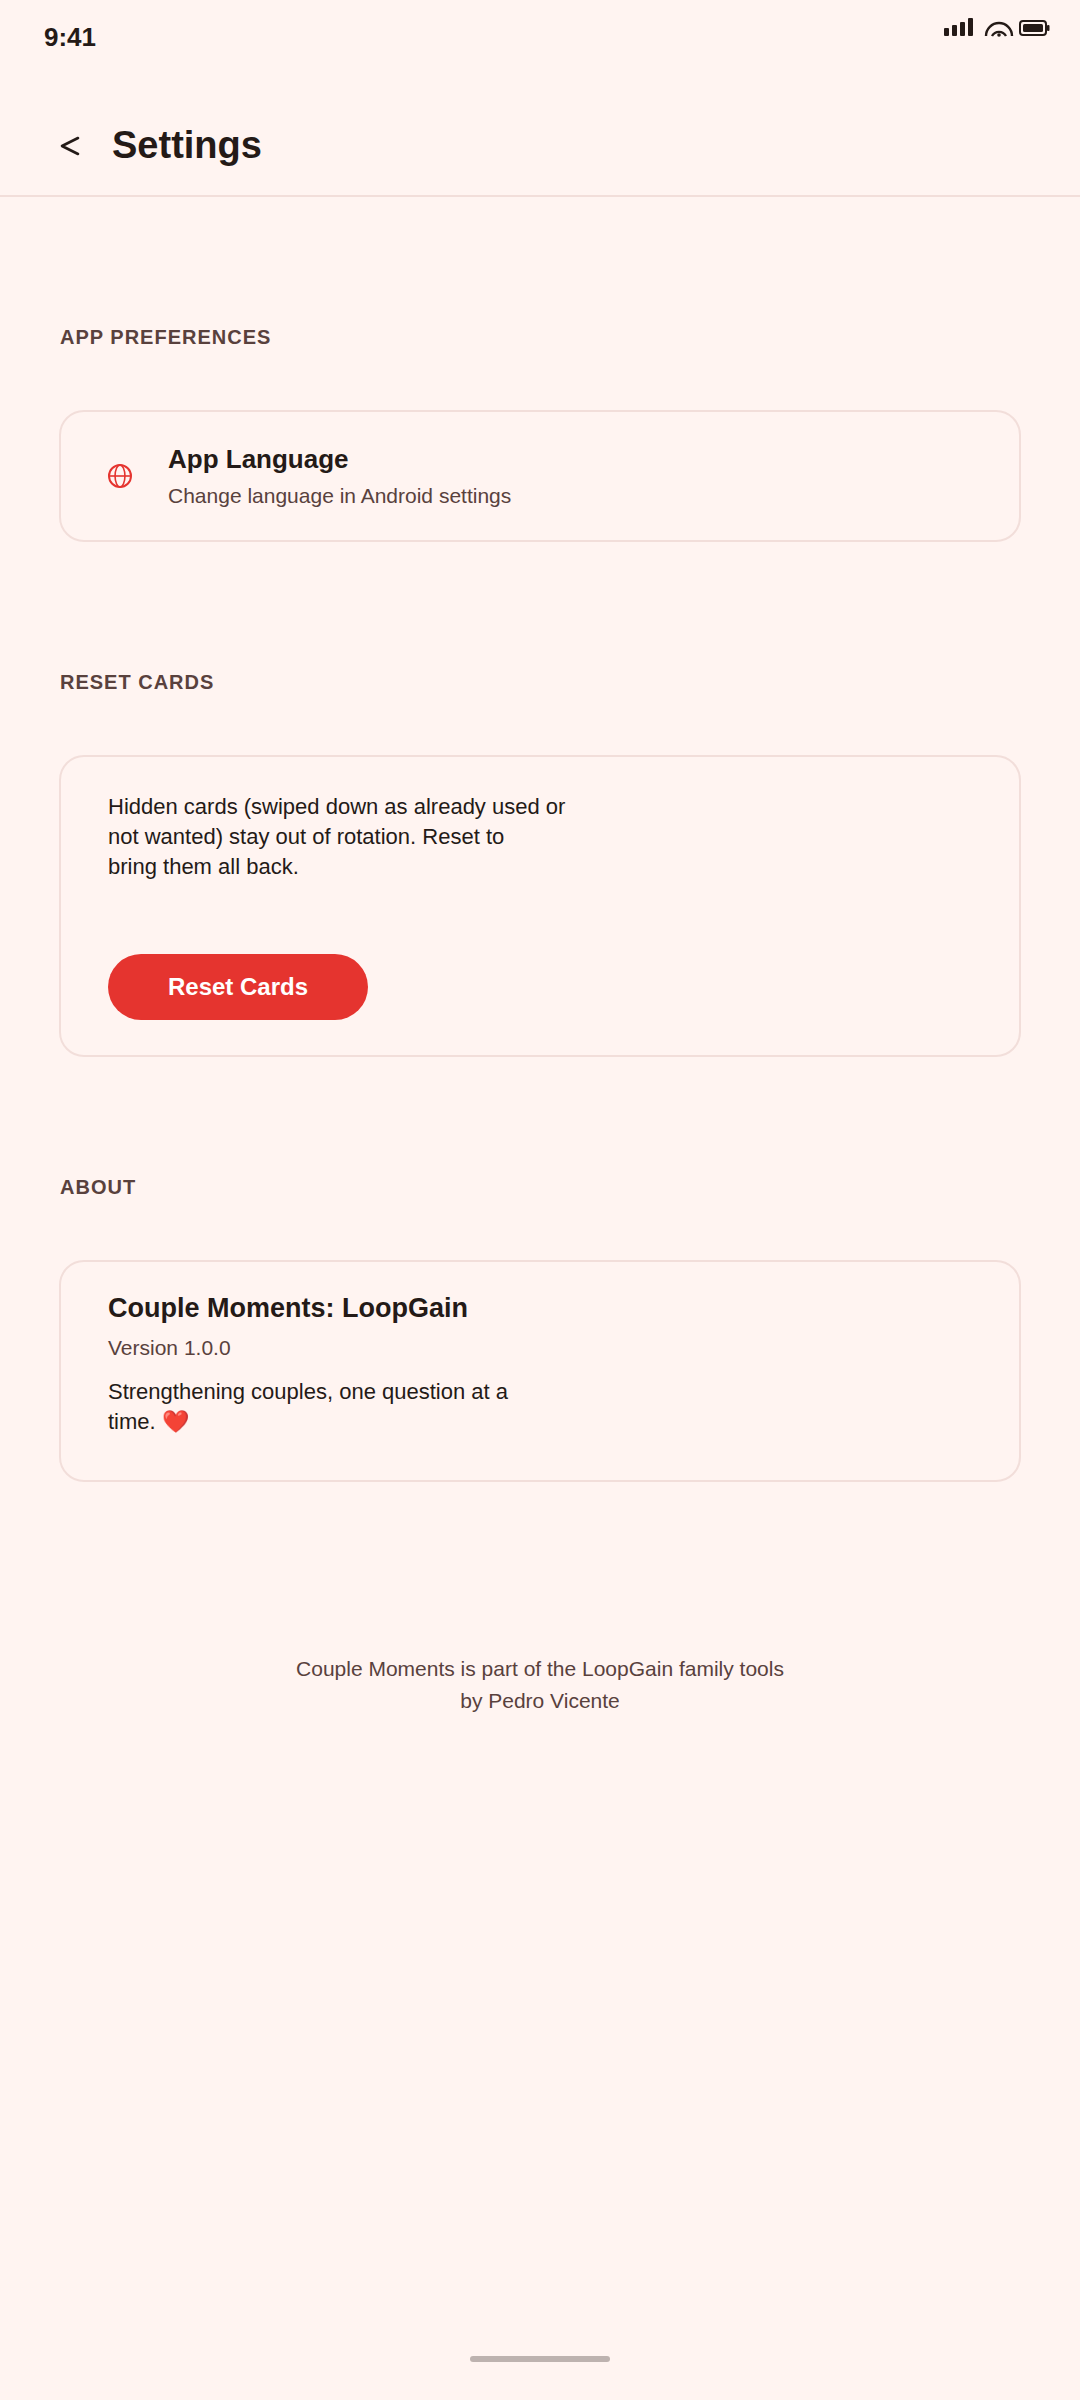
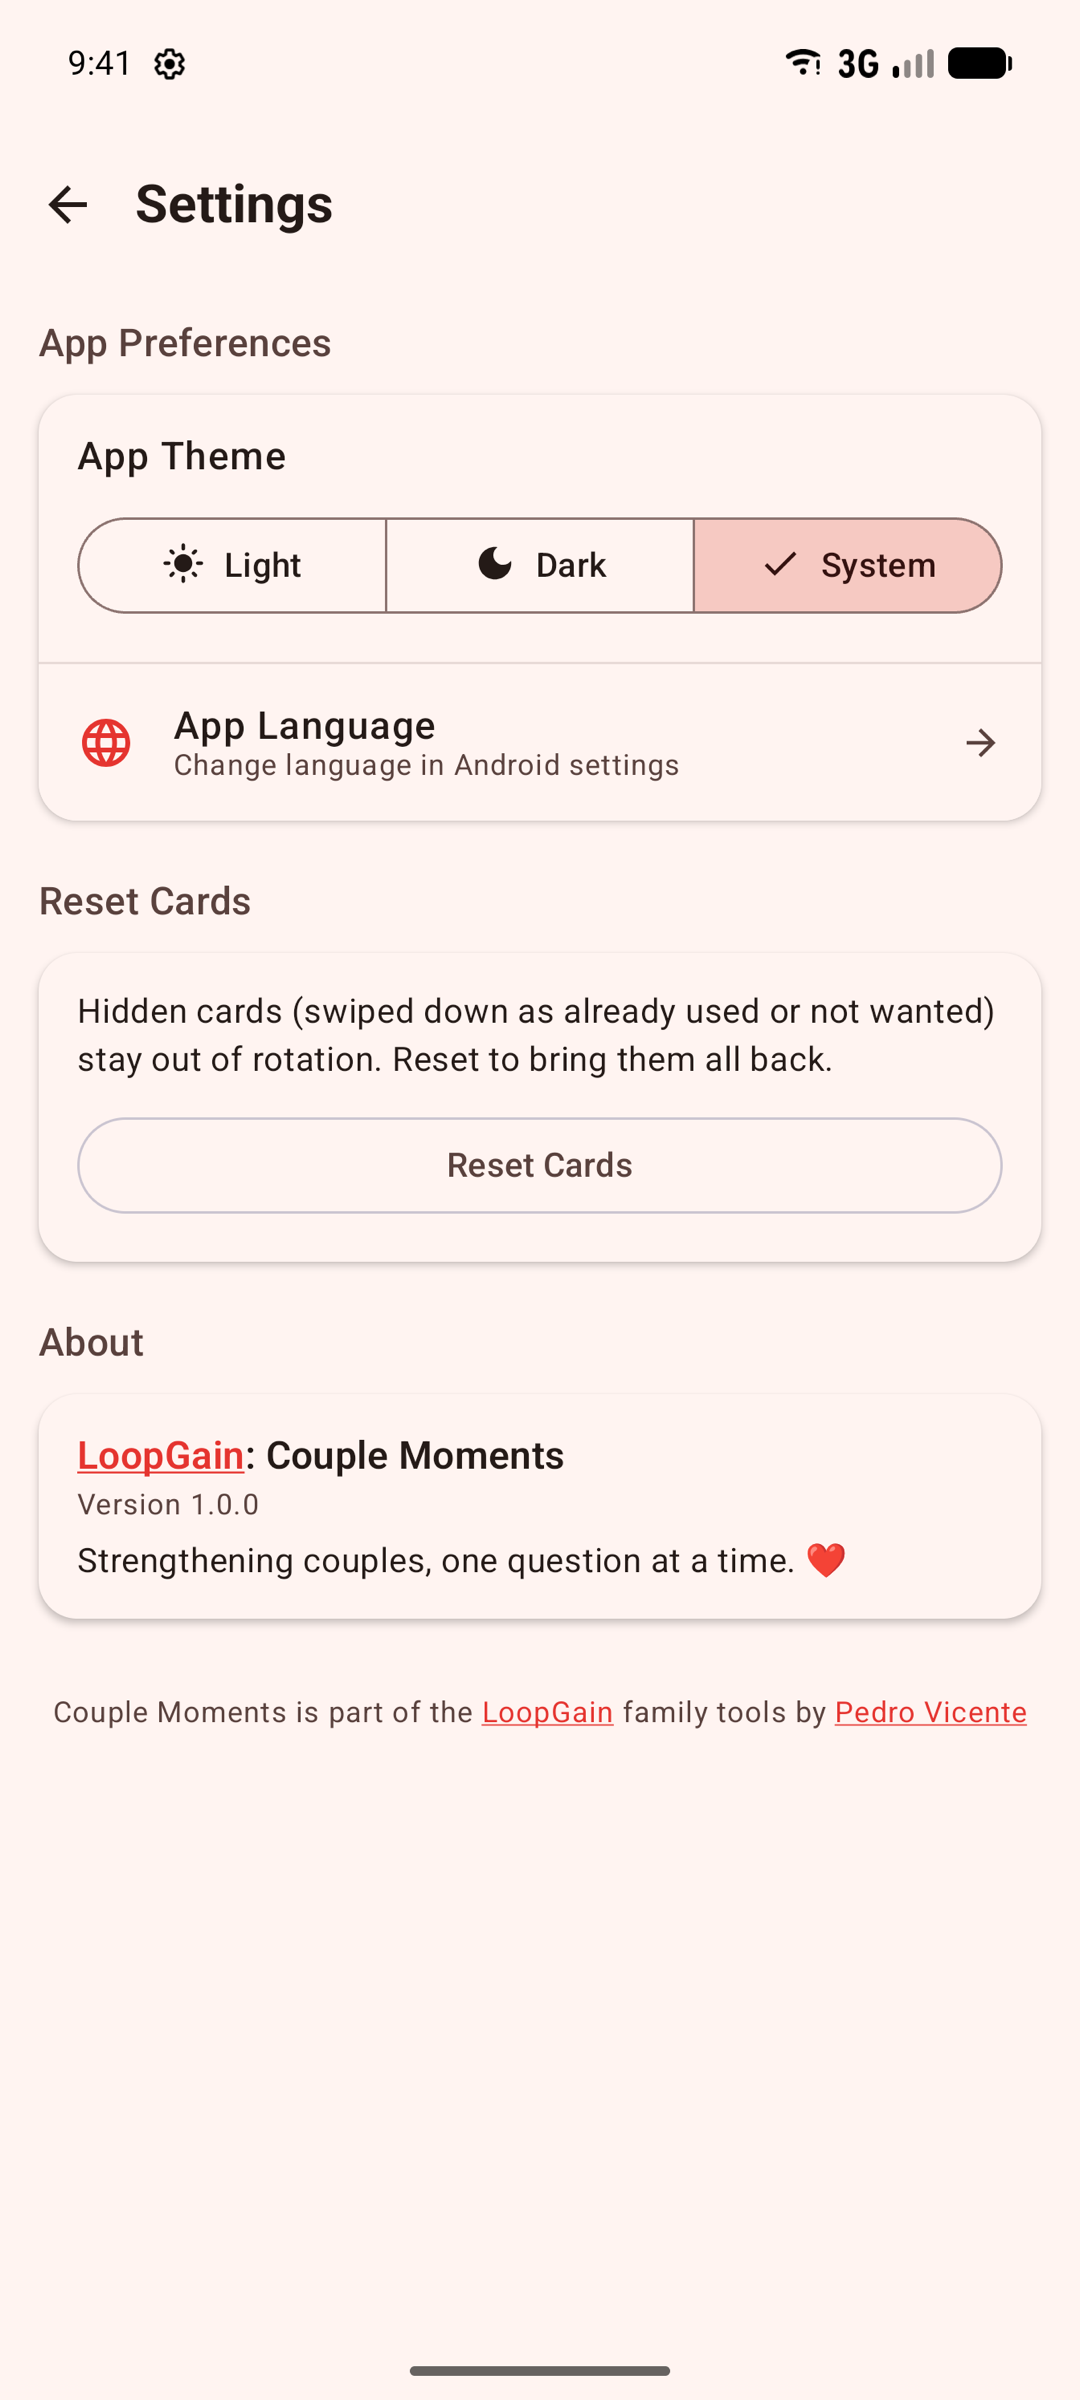
Disable dynamic color so the coral palette actually renders
CoupleMomentsTheme defaulted dynamicColor to true, so on Android 12+
devices Material You's wallpaper-derived scheme silently overrode the
static coral lightColorScheme/darkColorScheme added in #14. Unit tests
never caught it because they explicitly pass dynamicColor = false.

Also swaps the Play Store screenshots for real emulator captures (now
showing the correct coral branding instead of the wallpaper-derived
blue) and updates the assets README to document the capture process.

diff --git a/app/src/main/kotlin/org/neteinstein/couples/MainActivity.kt b/app/src/main/kotlin/org/neteinstein/couples/MainActivity.kt
@@ -29,7 +29,7 @@ class MainActivity : ComponentActivity() {
                     ThemeMode.System -> isSystemInDarkTheme()
                 }
 
-            CoupleMomentsTheme(darkTheme = darkTheme) {
+            CoupleMomentsTheme(darkTheme = darkTheme, dynamicColor = false) {
                 val navController = rememberNavController()
                 AppNavigation(navController = navController)
             }

diff --git a/docs/playstore/assets/README.md b/docs/playstore/assets/README.md
@@ -1,11 +1,6 @@
 # Play Store visual assets
 
-Graphics for the Play Console's Store presence page (Main store listing → Graphics). These are
-generated, not hand-drawn — `generate.py` renders each one as SVG (matching the real app's
-colors from `core/ui/.../theme/Color.kt`, the launcher mark from
-`app/src/main/res/drawable/ic_launcher_foreground.xml`, and the `feature/home` /
-`feature/settings` screen layouts/copy) and rasterizes it with macOS's `sips`, falling back to a
-headless Chromium `headless_shell` binary when `sips` isn't on PATH (e.g. on Linux).
+Graphics for the Play Console's Store presence page (Main store listing → Graphics).
 
 | File | Use | Spec |
 | --- | --- | --- |
@@ -20,10 +15,18 @@ All are en-US only; Play falls back to this set for locales without their own sc
 `screenshots/<locale>/` subfolder if per-locale screenshots are ever wanted for the other listed
 languages (`docs/playstore/play/listings/`).
 
+`icon-512.png` and `feature-graphic-1024x500.png` are generated, not hand-drawn —
+`generate.py` renders each one as SVG (matching the real app's colors from
+`core/ui/.../theme/Color.kt` and the launcher mark from
+`app/src/main/res/drawable/ic_launcher_foreground.xml`) and rasterizes it with macOS's `sips`,
+falling back to a headless Chromium `headless_shell` binary when `sips` isn't on PATH (e.g. on
+Linux). The four `screenshot-*.png` files are genuine device captures taken from an Android
+emulator (`sdk_gphone16k_arm64`, playstore debug build) — not generated — so they show the real
+running app.
+
 ## Regenerating
 
-The screenshots are faithful mockups (real strings, colors, and layout) rather than device
-captures — there's no Android emulator in this environment. Regenerate after a UI or copy change:
+Regenerate `icon-512.png` / `feature-graphic-1024x500.png` after a color or launcher-icon change:
 
 ```bash
 python3 docs/playstore/assets/generate.py
@@ -32,6 +35,18 @@ python3 docs/playstore/assets/generate.py
 Requires Python 3 with Pillow (`pip install pillow`) and either macOS's `sips` or a Chromium/Chrome
 build providing `headless_shell` (used to rasterize the intermediate SVGs; the .svg files are
 deleted after each run) - set `CHROME_BIN` to point at a specific binary if none is auto-detected.
-For a pixel-exact capture, swap these for real device/emulator screenshots before submission if
-desired - the generated ones are accurate enough to submit as-is but aren't a substitute for the
-genuine article.
+
+Recapture the `screenshot-*.png` files after a UI or copy change, from a running emulator:
+
+```bash
+./gradlew :app:assemblePlaystoreDebug
+adb install -r app/build/outputs/apk/playstore/debug/app-playstore-debug.apk
+```
+
+Then launch the app, disable animations (`adb shell settings put global window_animation_scale 0`
+etc.) for crisp captures, navigate to each of the four views (home swipe deck; swipe up on a card
+for the full-screen question; the grid icon, filtered to a single wholesome category such as
+Memories, to avoid surfacing Intimacy-category questions in a store screenshot; the settings gear),
+capture with `adb shell screencap -p /sdcard/shot.png` + `adb pull`, and downscale to 1080×2400
+with `sips -z 2400 1080 <capture>.png --out screenshot-N-name.png` (the emulator's native
+resolution is already a 20:9 aspect ratio, so this is a straight resize with no cropping).
